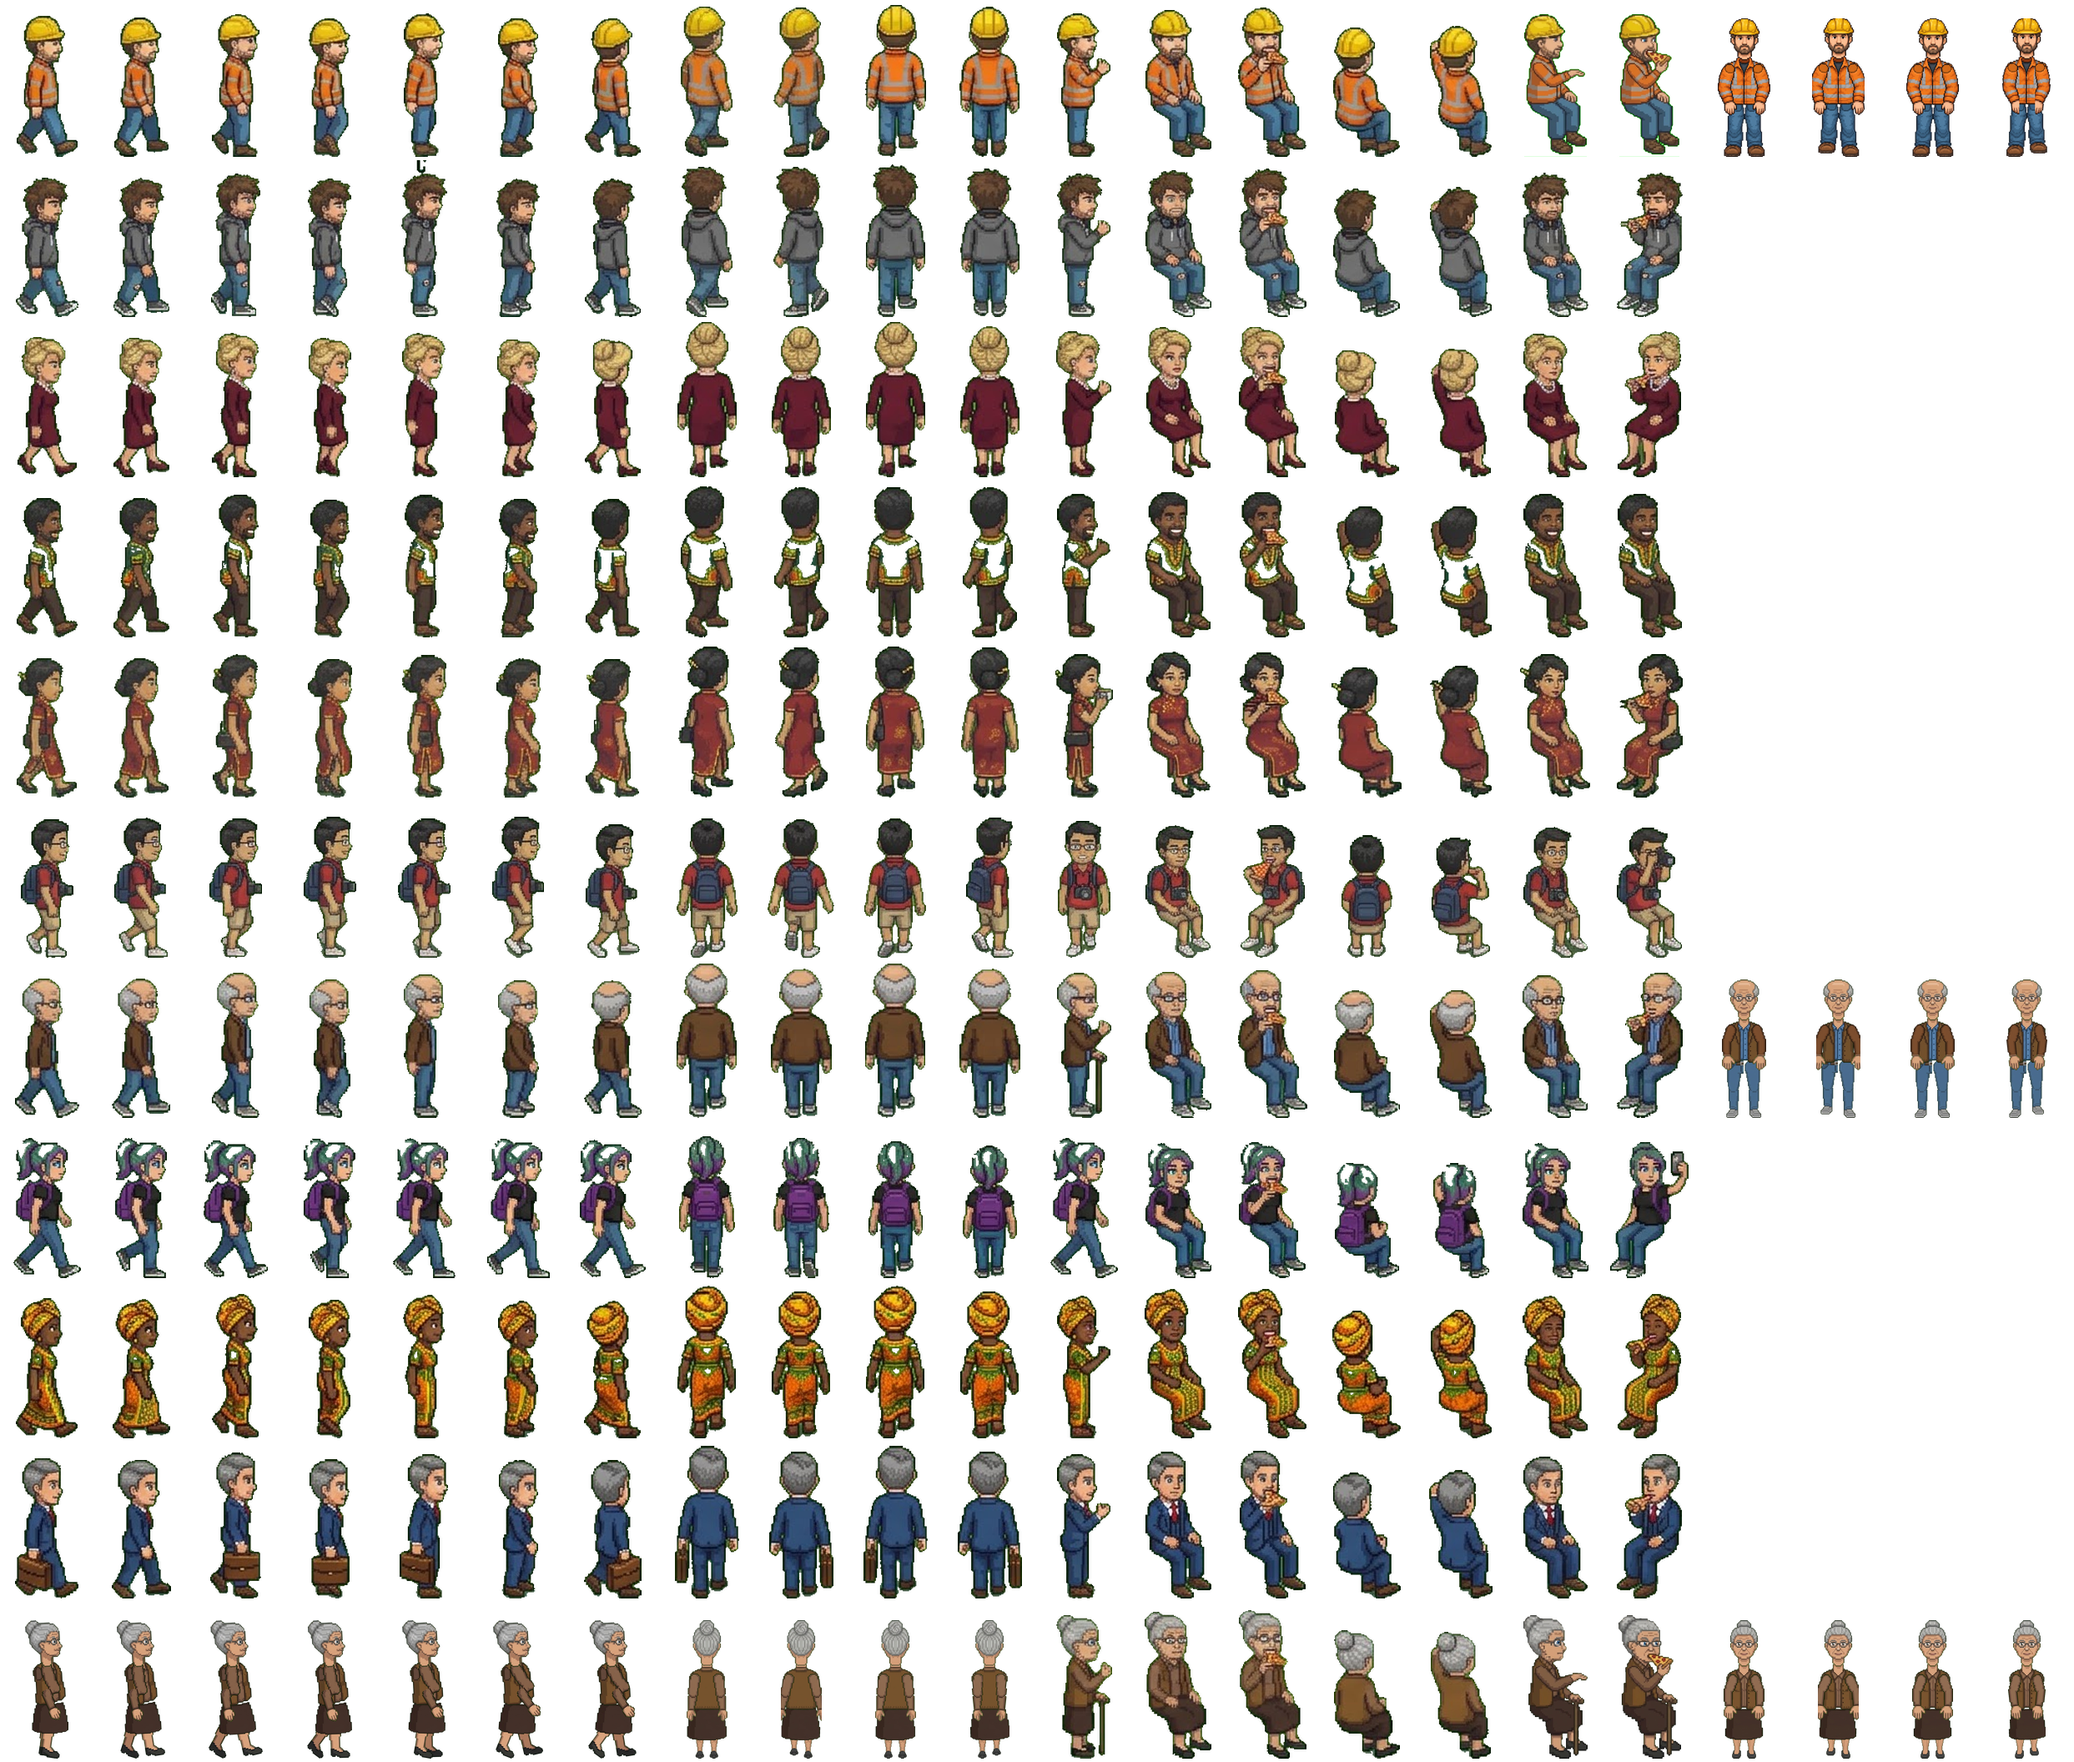
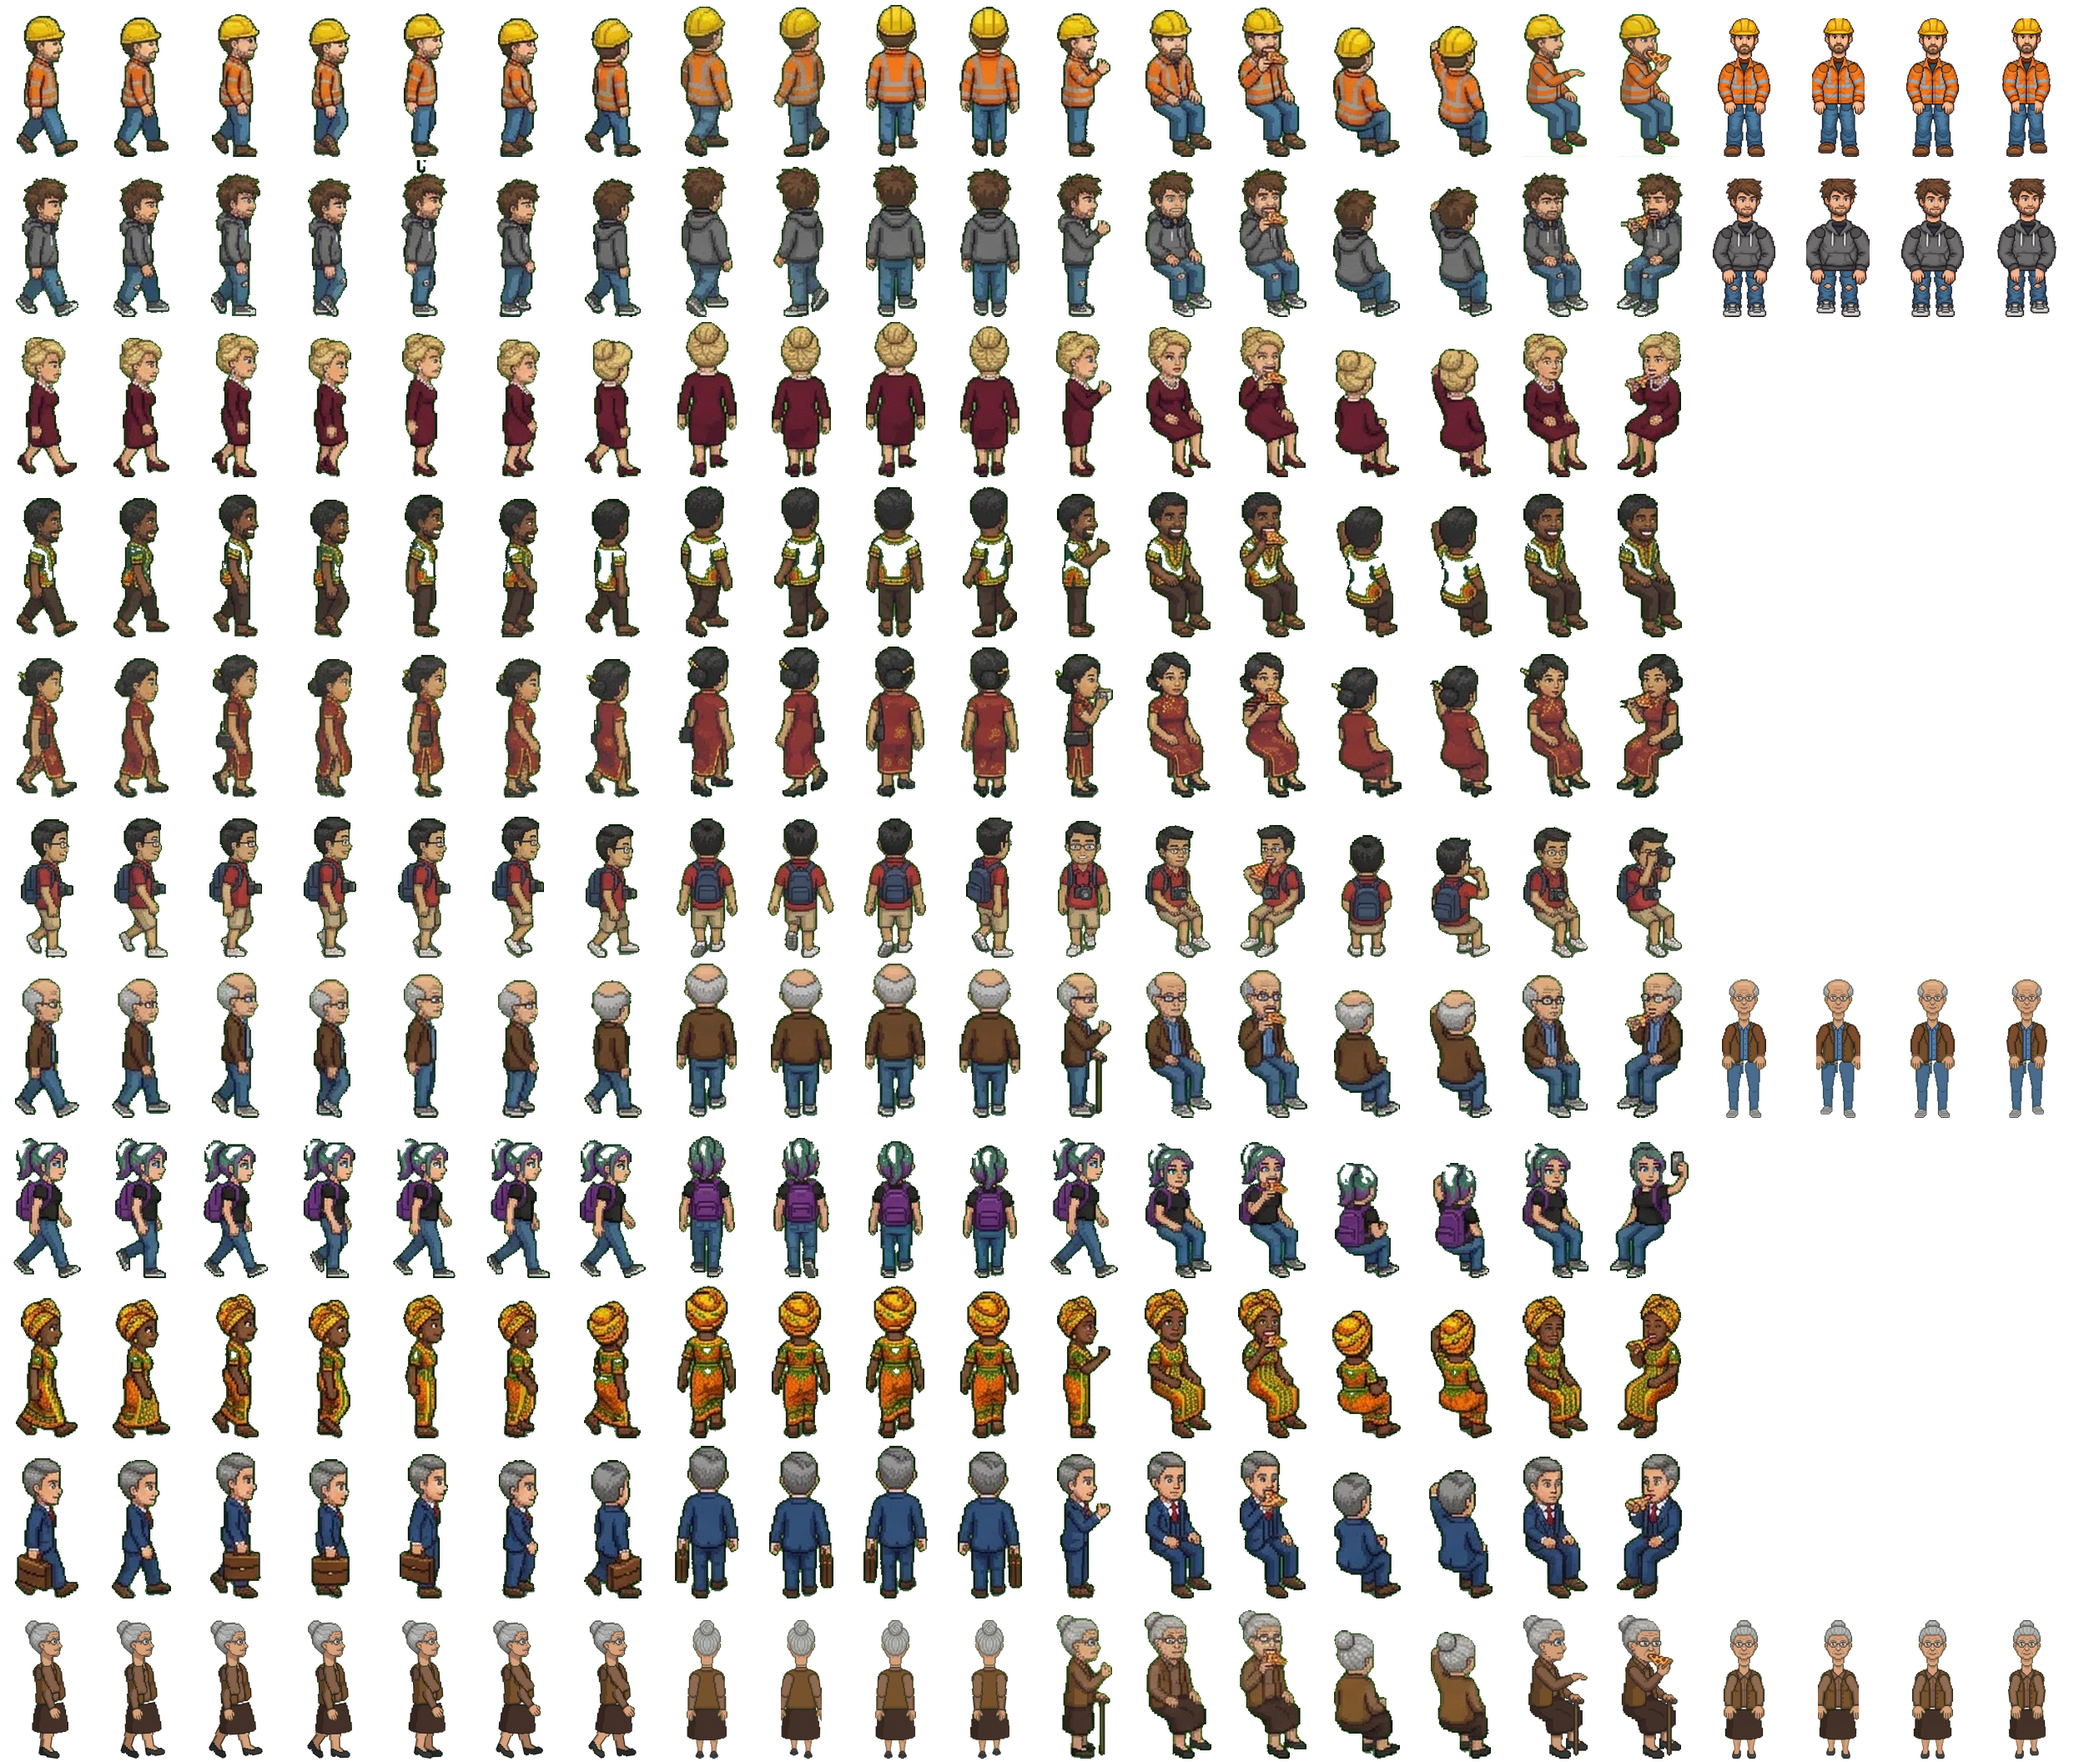
Pizzabaas: student loopt echt naar voren
Claude-Session: https://claude.ai/code/session_01A1NZDKEqH4AvFTuhgNYDbP

Changed region(s): [[0.8053, 0.0938, 0.9912, 0.1875]]

diff --git a/pizzabaas.html b/pizzabaas.html
@@ -2993,7 +2993,7 @@ function figuur(img, p, bijzonder, rug, achter, vel) {
 // rijen: 0 werker (pizza/werker2-gemini.jpg), 1 student (student2), 2 villadame, 3 Afrikaanse man (afrikaan), 4 Chinese dame (dame-china2), 5 Chinese toerist (toerist),
 // 6 opa (opa2), 7 studente, 8 Afrikaanse vrouw (afrikaanse-vrouw), 9 zakenman, 10 oma (oma2)
 const KLANTEN = new Image(); KLANTEN.src = 'pizza/klanten.png';
-const VOORLOOP = { 0: [18, 19, 20, 21], 6: [18, 19, 20, 21], 10: [18, 19, 20, 21] }; // vakjes 18-21: lopen naar de kijker toe (uit extra/poppetjes_generator.py en extra/poppetjes_voor.py); nu opa en oma
+const VOORLOOP = { 0: [18, 19, 20, 21], 1: [18, 19, 20, 21], 6: [18, 19, 20, 21], 10: [18, 19, 20, 21] }; // vakjes 18-21: lopen naar de kijker toe (uit extra/poppetjes_generator.py en extra/poppetjes_voor.py); nu opa en oma
 const KLANTVEL = (rij) => ({ rij, staan: 11, opzij: [0, 1, 2, 3, 4, 5, 6], rechts: true, rug: 7, rugLoop: [7, 8, 9, 10], voorLoop: VOORLOOP[rij], fps: 9 });
 const FIGUREN = { werker: [0, 0, 3], student: [1, 7], villa: [2, 9], toerist: [5, 4, 3, 8], opa: [6, 10] };
 function tekenKlantFig(m, nu) { // in wereldcoördinaten (pixels van de zaak); zittend op zijn stoel, of lopend

diff --git a/extra/poppetjes_voor.py b/extra/poppetjes_voor.py
@@ -8,6 +8,8 @@ FIG = {  # nummers = losse vormpjes op het vel (van boven naar beneden, links na
               beenschaal=0.66, mouw=(118, 74, 44), pols=0.66),
   'werker': dict(voor='pizza/werker-onderdelen-chatgpt.png', benen='pizza/werker-onderdelen-chatgpt.png', hoofd=1, romp=2, arm=(3, 4), been=(5, 6),
                  beenschaal=0.95, achter=(7, 8), kapjes=(236, 120, 30)),  # bruine schouderkapjes op de romp oranje maken  # ChatGPT: alles op één vel (benen 5/6 voor, 7/8 achter)
+  'student': dict(voor='pizza/student-onderdelen-chatgpt.png', benen='pizza/student-onderdelen-chatgpt.png', hoofd=1, romp=2, arm=(4, 3), been=(8, 9),
+                  beenschaal=0.95, achter=(6, 7)),
 }
 def lees(pad):
     a = np.array(Image.open(pad).convert('RGB')).astype(int); H, W, _ = a.shape; bg = np.median(a[2:8, 2:8].reshape(-1, 3), 0)

diff --git a/pizza/CLAUDE.md b/pizza/CLAUDE.md
@@ -333,5 +333,5 @@ Balans nieuwe zaak (29 okt): boos weglopen kost 1,5 populariteit per poppetje (w
 Opa loopt naar voren (rij 6, vakjes 18-21) uit `extra/poppetjes_voor.py opa` (figuren in een broek: vel `-voor-` + vel `-benen-`, instellingen
 per figuur in `FIG`; Gemini gaf blote armen, `mouw` kleurt ze tot de pols in de kleur van het jasje). Nieuwe figuur: vellen bewaren als
 `pizza/<naam>-onderdelen-voor-gemini.jpg` en `-benen-`, nummers opzoeken, regel in `FIG`, uitvoer in vakjes 18-21 van de rij, rij in `VOORLOOP`.
-Werker loopt naar voren (rij 0, vakjes 18-21) uit `extra/poppetjes_voor.py werker`, vel van ChatGPT (`pizza/werker-onderdelen-chatgpt.png`:
+Werker (rij 0) en student (rij 1, `pizza/student-onderdelen-chatgpt.png`) lopen naar voren (vakjes 18-21) uit `extra/poppetjes_voor.py werker`, vel van ChatGPT (`pizza/werker-onderdelen-chatgpt.png`:
 alles op één vel, benen 5/6 voor, 7/8 achter); `kapjes` kleurt de bruine schouderkapjes oranje. ChatGPT deed het in één keer goed.
